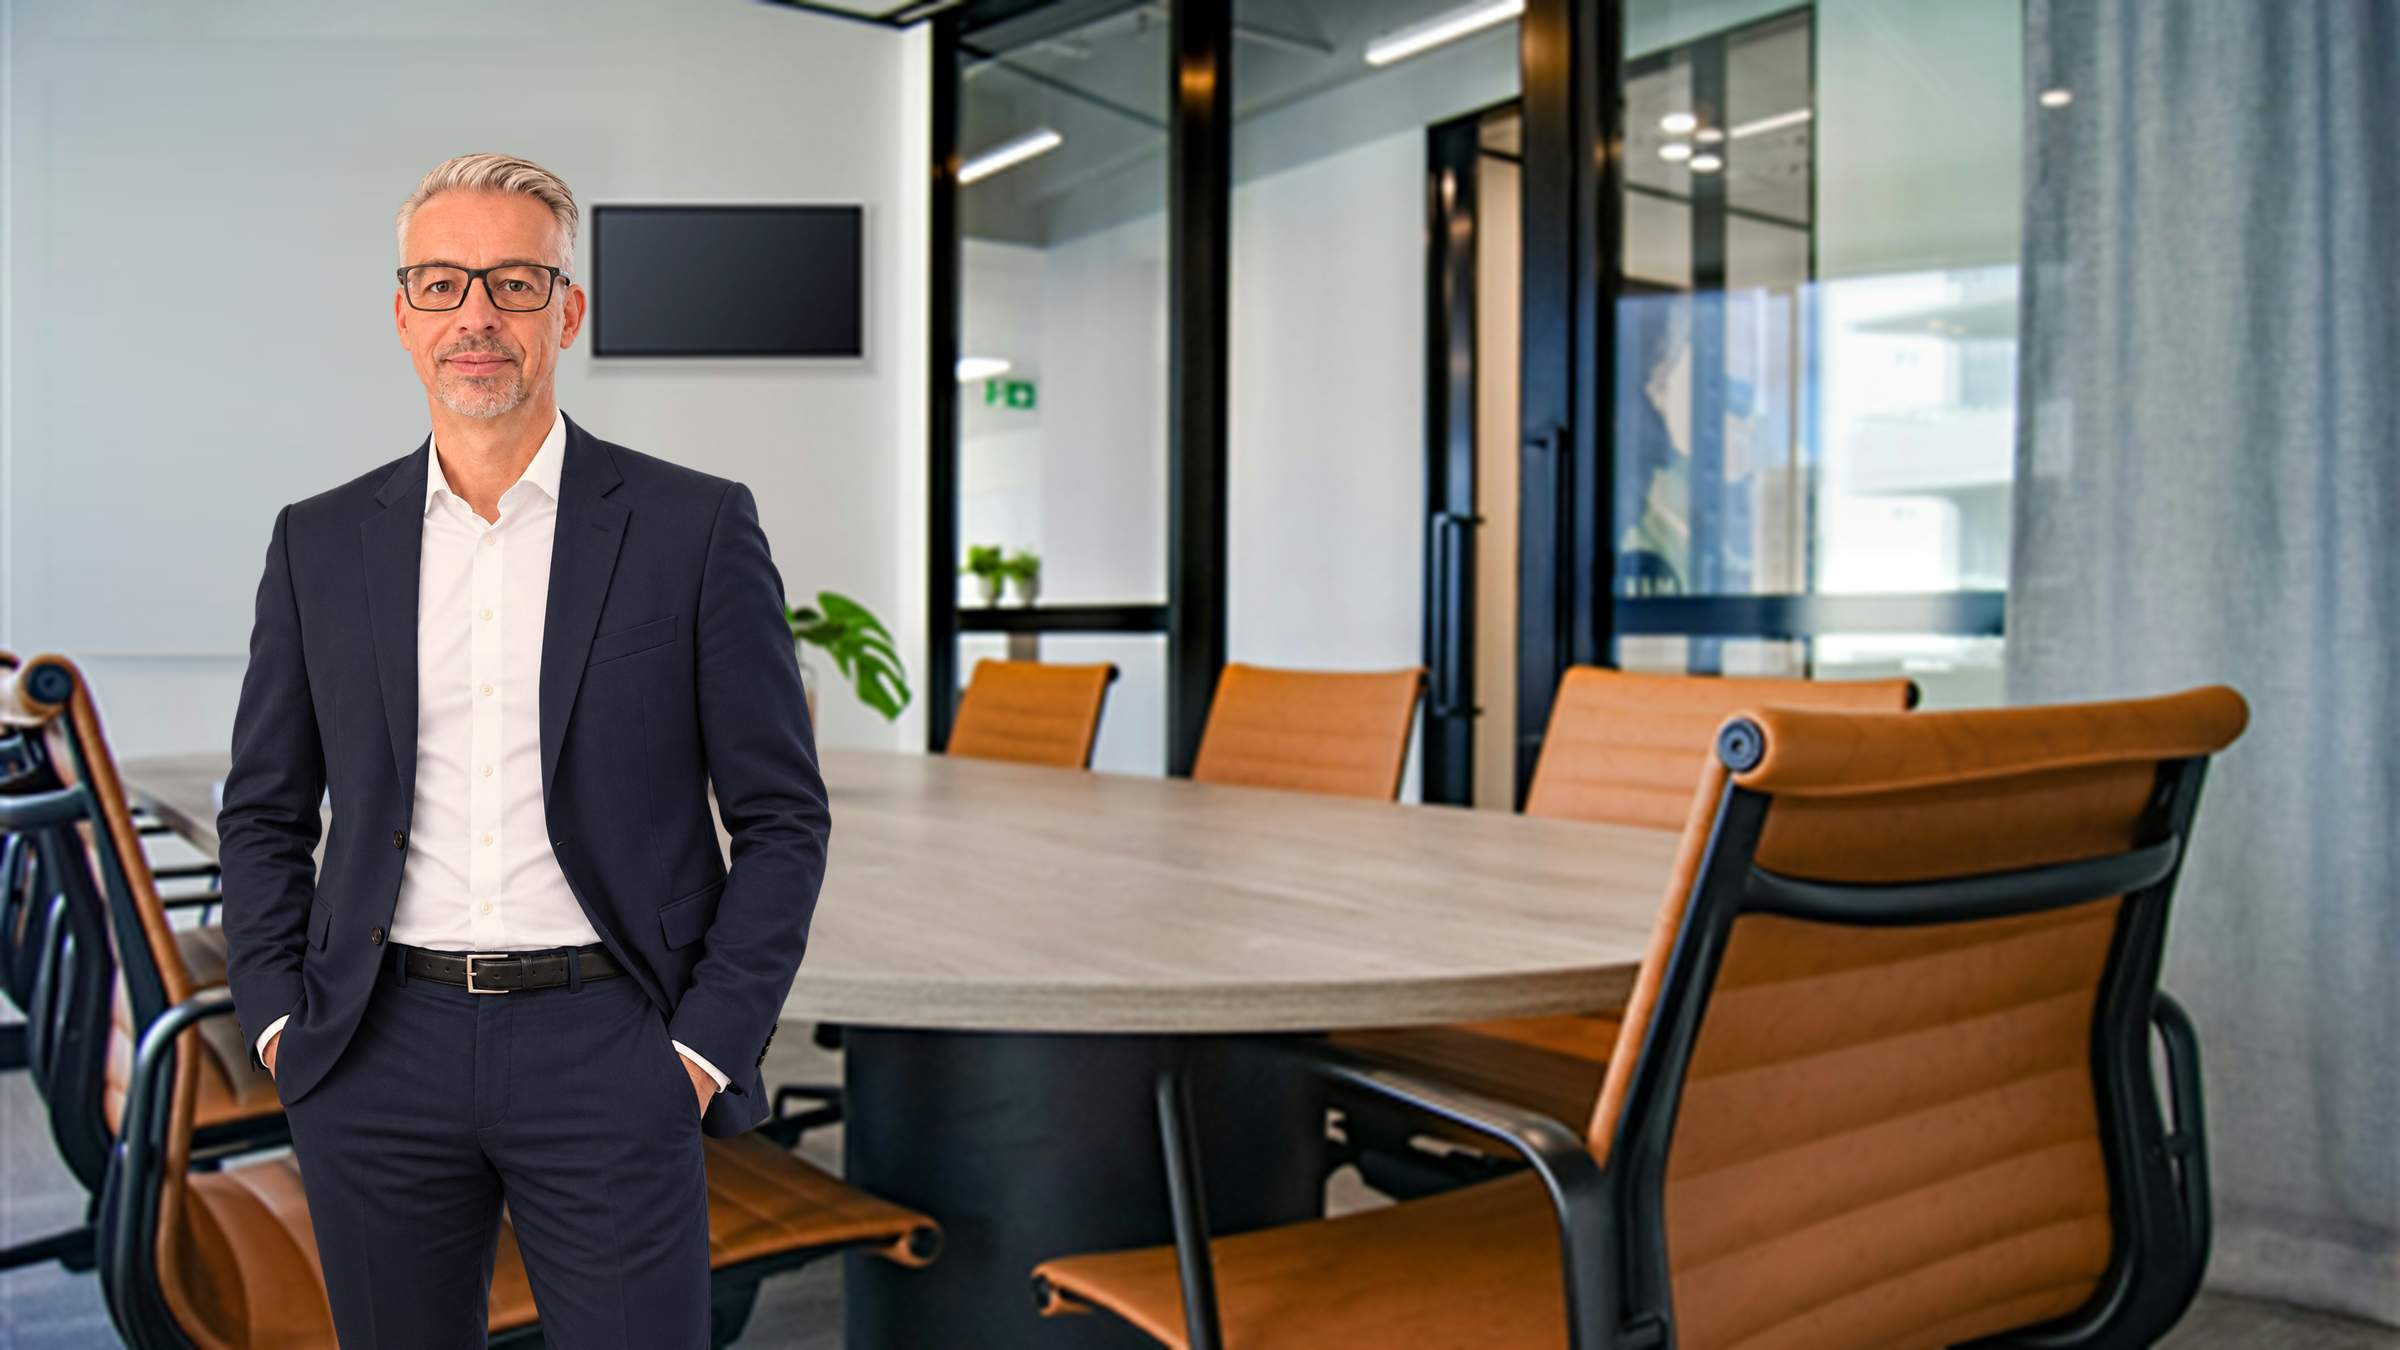
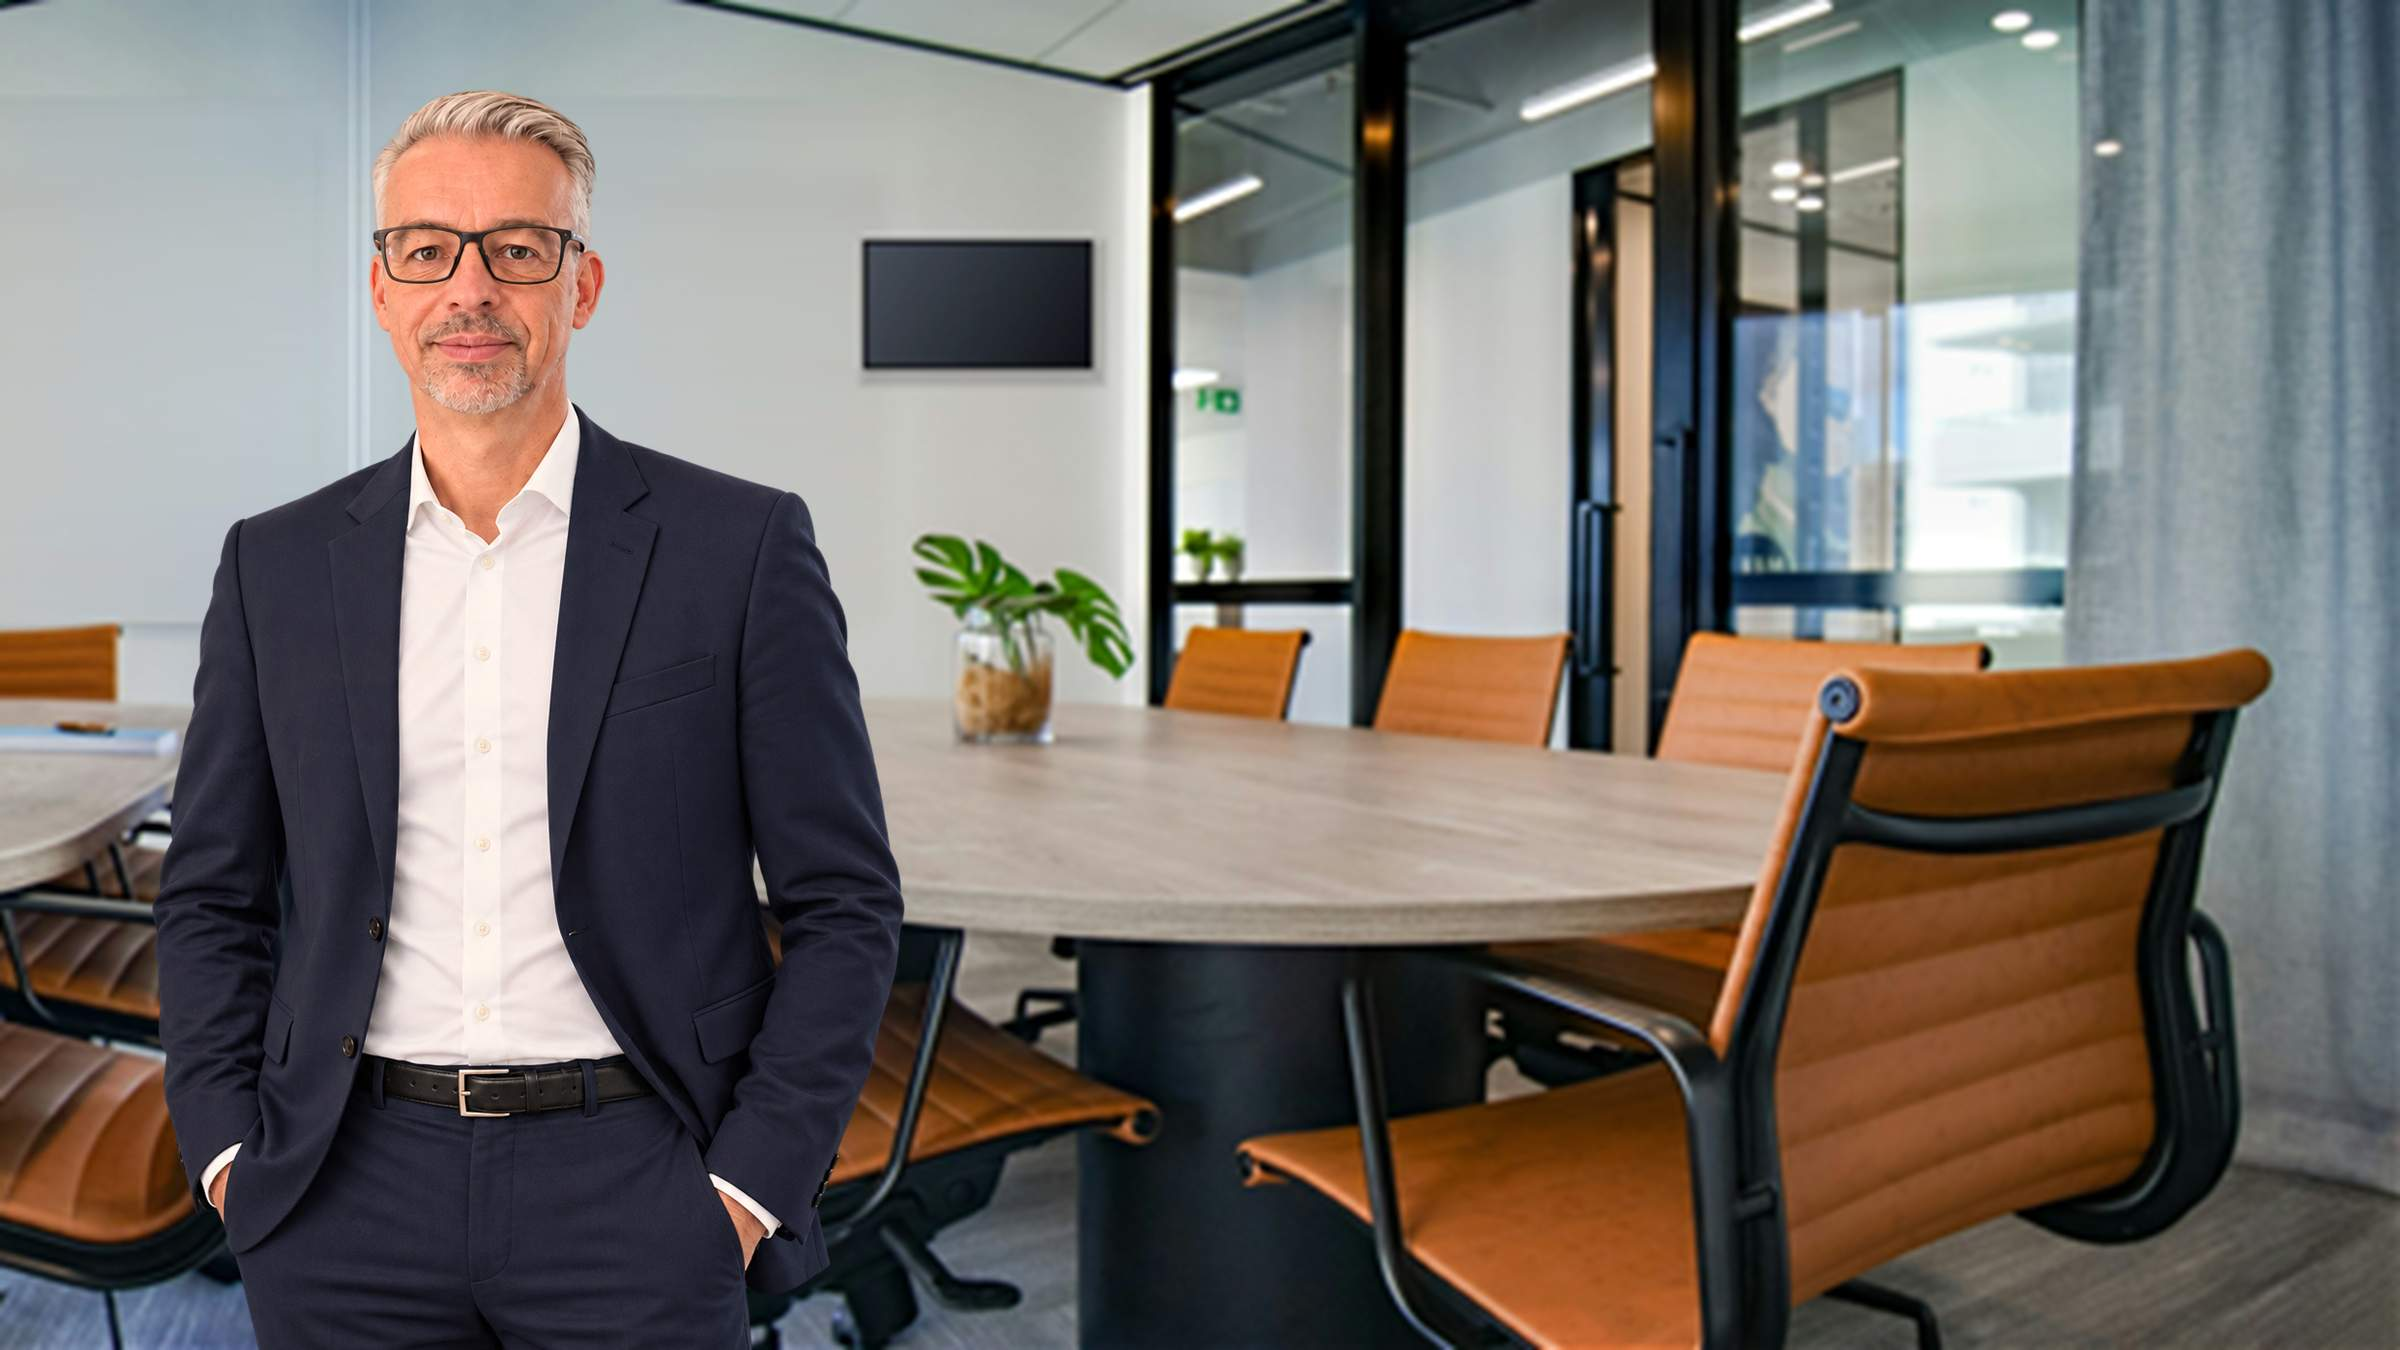
Startseite: Über mich – Raum im Verhältnis kleiner
Figur größer (näher an der Kamera, an der Hüfte angeschnitten), Raum
leicht verkleinert und rechts ausgerichtet; Rand links hinter der Figur
gespiegelt ergänzt (compose_ueber_mich.ps1: -RoomScale, -PersonTop).

diff --git a/index.html b/index.html
@@ -415,7 +415,7 @@
       <div class="container split">
         <div class="span-5">
           <!-- Foto (PRD §31): assets/img/ueber-mich.jpg – Portrait freigestellt (portrait-freigestellt.png) und in den Besprechungsraum (ueber-mich-raum.jpg) gesetzt mit scripts/compose_ueber_mich.ps1, Bildrechte in assets/img/README.md -->
-          <img class="portrait" src="assets/img/ueber-mich.jpg?v=3" alt="Stefan Hansen in einem Besprechungsraum" width="2400" height="1350" loading="lazy">
+          <img class="portrait" src="assets/img/ueber-mich.jpg?v=4" alt="Stefan Hansen in einem Besprechungsraum" width="2400" height="1350" loading="lazy">
         </div>
         <div class="span-7">
           <p class="kicker">Über mich</p>
